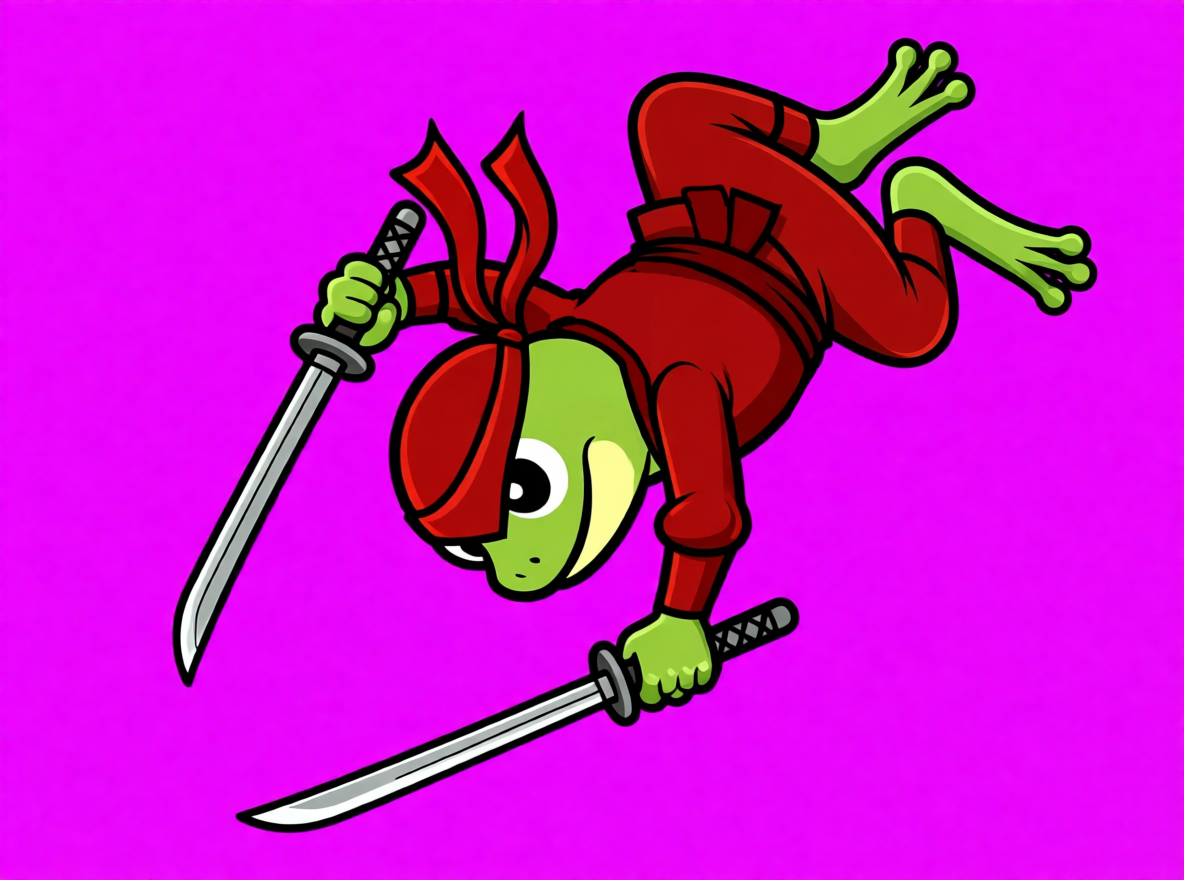
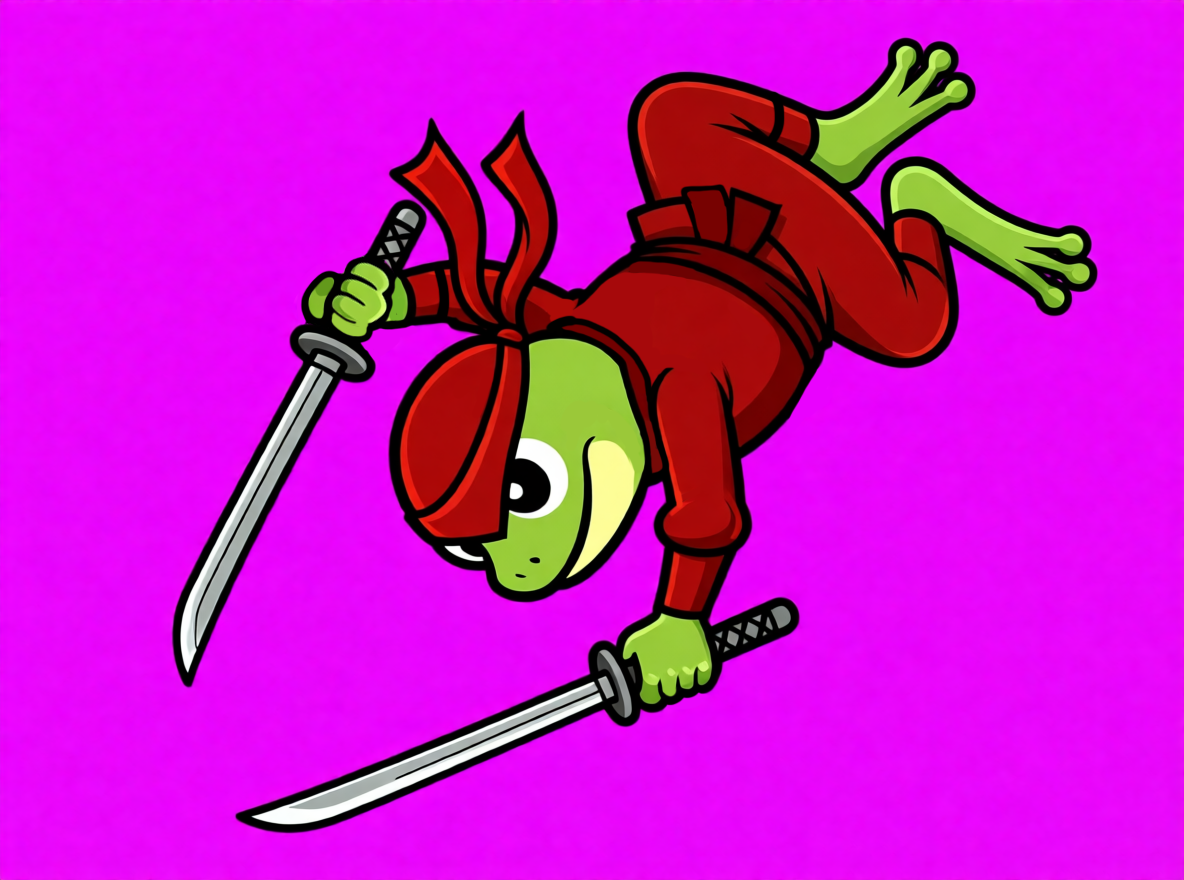
Slash under the frog: Marek's retouched drawing

diff --git a/static/js/views/frog-game.js b/static/js/views/frog-game.js
@@ -287,7 +287,7 @@ const SIDESLASH_ART = { url: '/img/game/frog/sideslash.dbb4c96040.webp', size: [
 const OVER_ART = { url: '/img/game/frog/over.3017cc56cd.webp', size: [637, 832], mid: 306, feet: 832, headW: 300, lift: 800, grow: 1.1, front: true };      // (Marek, 2026-11-22: further up in the air, and 10% bigger)
 // the slash under the frog (Marek's pick 2026-11-22, limbs fixed by him): a jump curled upside down, both katanas driven down below it.
 // feet: its lowest point (a blade tip), lift: how far that stays above the post; faces: drawn looking left, so mirrored the other way round.
-const UNDER_ART = { url: '/img/game/frog/under.a46168a51d.webp', size: [924, 795], mid: 458, feet: 795, headW: 270, lift: 730, grow: 0.8, faces: -1, spin: 28 };      // (Marek, 2026-11-22: further up in the air, then 20% smaller; the lift keeps its middle where it was; spin: degrees it tumbles forward about its middle while it cuts, 'rotate slightly')
+const UNDER_ART = { url: '/img/game/frog/under.501431f6a6.webp', size: [924, 795], mid: 458, feet: 795, headW: 270, lift: 730, grow: 0.8, faces: -1, spin: 28 };      // (Marek, 2026-11-22: further up in the air, then 20% smaller; the lift keeps its middle where it was; spin: degrees it tumbles forward about its middle while it cuts, 'rotate slightly')
 // the duck (Marek's pick 2026-11-22): a level stroke through its head and it drops into a deep squat on the post, katanas crossed flat above it.
 const DUCK_ART = { url: '/img/game/frog/duck.5315c8fe2f.webp', size: [800, 702], mid: 390, feet: 690, headW: 325, front: true };
 // the rising cut (Marek's pick 2026-11-22): an upward stroke, or one above its head, and it jumps, knees tucked, both katanas swung up and across.
